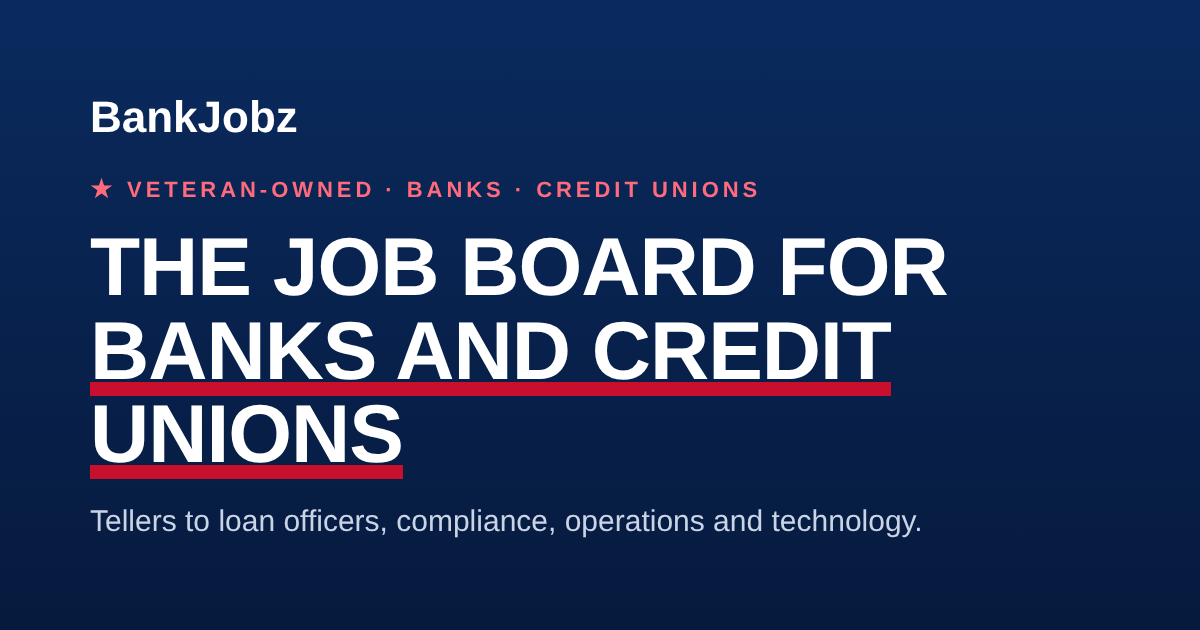
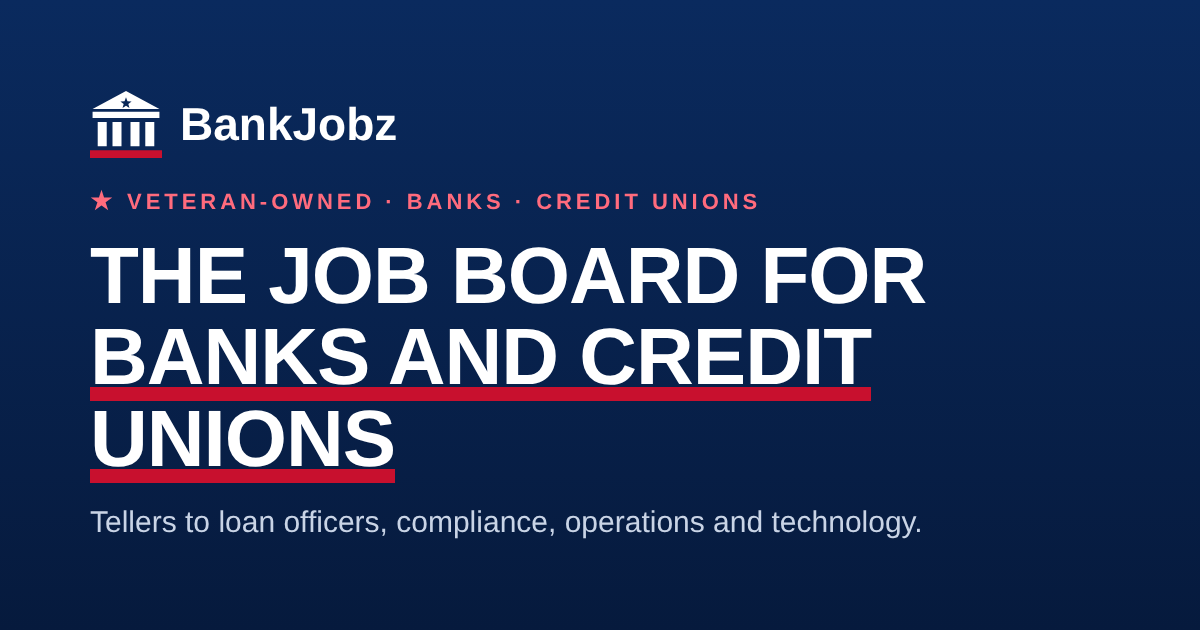
Add files via upload

diff --git a/public/terms.html b/public/terms.html
@@ -21,7 +21,7 @@
 </style>
 </head>
 <body>
-<header class="site-head"><div class="wrap"><a class="brand" href="/">BankJobz</a></div></header>
+<header class="site-head"><div class="wrap"><a class="brand" href="/"><svg class="brand-mark" viewBox="4 6 56 52" aria-hidden="true" focusable="false"><path fill="currentColor" fill-rule="evenodd" d="M32 6 L58 20 L6 20 Z M32.00 10.90 L33.12 13.96 L36.37 14.08 L33.81 16.09 L34.70 19.22 L32.00 17.40 L29.30 19.22 L30.19 16.09 L27.63 14.08 L30.88 13.96 Z"/><path fill="currentColor" d="M6 22h52v5H6z M10 30h7v19h-7z M21.5 30h7v19h-7z M35.5 30h7v19h-7z M47 30h7v19h-7z"/><path style="fill:var(--red,#c8102e)" d="M4 52h56v6H4z"/></svg><span>BankJobz</span></a></div></header>
 <main class="legal">
   <h1>Terms of Service</h1>
   <p class="updated">Last updated November 15, 2026</p>

diff --git a/public/privacy.html b/public/privacy.html
@@ -21,7 +21,7 @@
 </style>
 </head>
 <body>
-<header class="site-head"><div class="wrap"><a class="brand" href="/">BankJobz</a></div></header>
+<header class="site-head"><div class="wrap"><a class="brand" href="/"><svg class="brand-mark" viewBox="4 6 56 52" aria-hidden="true" focusable="false"><path fill="currentColor" fill-rule="evenodd" d="M32 6 L58 20 L6 20 Z M32.00 10.90 L33.12 13.96 L36.37 14.08 L33.81 16.09 L34.70 19.22 L32.00 17.40 L29.30 19.22 L30.19 16.09 L27.63 14.08 L30.88 13.96 Z"/><path fill="currentColor" d="M6 22h52v5H6z M10 30h7v19h-7z M21.5 30h7v19h-7z M35.5 30h7v19h-7z M47 30h7v19h-7z"/><path style="fill:var(--red,#c8102e)" d="M4 52h56v6H4z"/></svg><span>BankJobz</span></a></div></header>
 <main class="legal">
   <h1>Privacy Policy</h1>
   <p class="updated">Last updated November 23, 2026</p>

diff --git a/public/index.html b/public/index.html
@@ -44,7 +44,7 @@
 <!--APP-START-->
 <header class="site-head">
   <div class="wrap">
-    <a class="brand" href="#home">BankJobz</a>
+    <a class="brand" href="#home"><svg class="brand-mark" viewBox="4 6 56 52" aria-hidden="true" focusable="false"><path fill="currentColor" fill-rule="evenodd" d="M32 6 L58 20 L6 20 Z M32.00 10.90 L33.12 13.96 L36.37 14.08 L33.81 16.09 L34.70 19.22 L32.00 17.40 L29.30 19.22 L30.19 16.09 L27.63 14.08 L30.88 13.96 Z"/><path fill="currentColor" d="M6 22h52v5H6z M10 30h7v19h-7z M21.5 30h7v19h-7z M35.5 30h7v19h-7z M47 30h7v19h-7z"/><path style="fill:var(--red,#c8102e)" d="M4 52h56v6H4z"/></svg><span>BankJobz</span></a>
     <nav class="nav" aria-label="Main">
       <a href="#jobs" data-nav="jobs">Current positions</a>
       <a href="/banks" id="nav-banks">Bank directory</a>

diff --git a/public/app.css b/public/app.css
@@ -67,9 +67,10 @@ h1, h2, h3 { font-family: var(--font-display); text-wrap: balance; line-height: 
 }
 .site-head .wrap { display: flex; align-items: center; gap: 1rem; padding-block: 0.75rem; flex-wrap: wrap; }
 .brand {
-  display: flex; align-items: baseline; gap: 0.5rem; text-decoration: none; color: var(--fg);
+  display: flex; align-items: center; gap: 0.5rem; text-decoration: none; color: var(--fg);
   font-family: var(--font-display); font-weight: 800; font-size: 1.2rem; letter-spacing: -0.01em;
 }
+.brand-mark { width: 1.6em; height: 1.49em; flex-shrink: 0; margin-top: -0.12em; }
 .nav { display: flex; gap: 0.25rem; margin-left: auto; }
 .nav a {
   text-decoration: none; color: var(--muted); font-weight: 600; font-size: 0.9rem;
